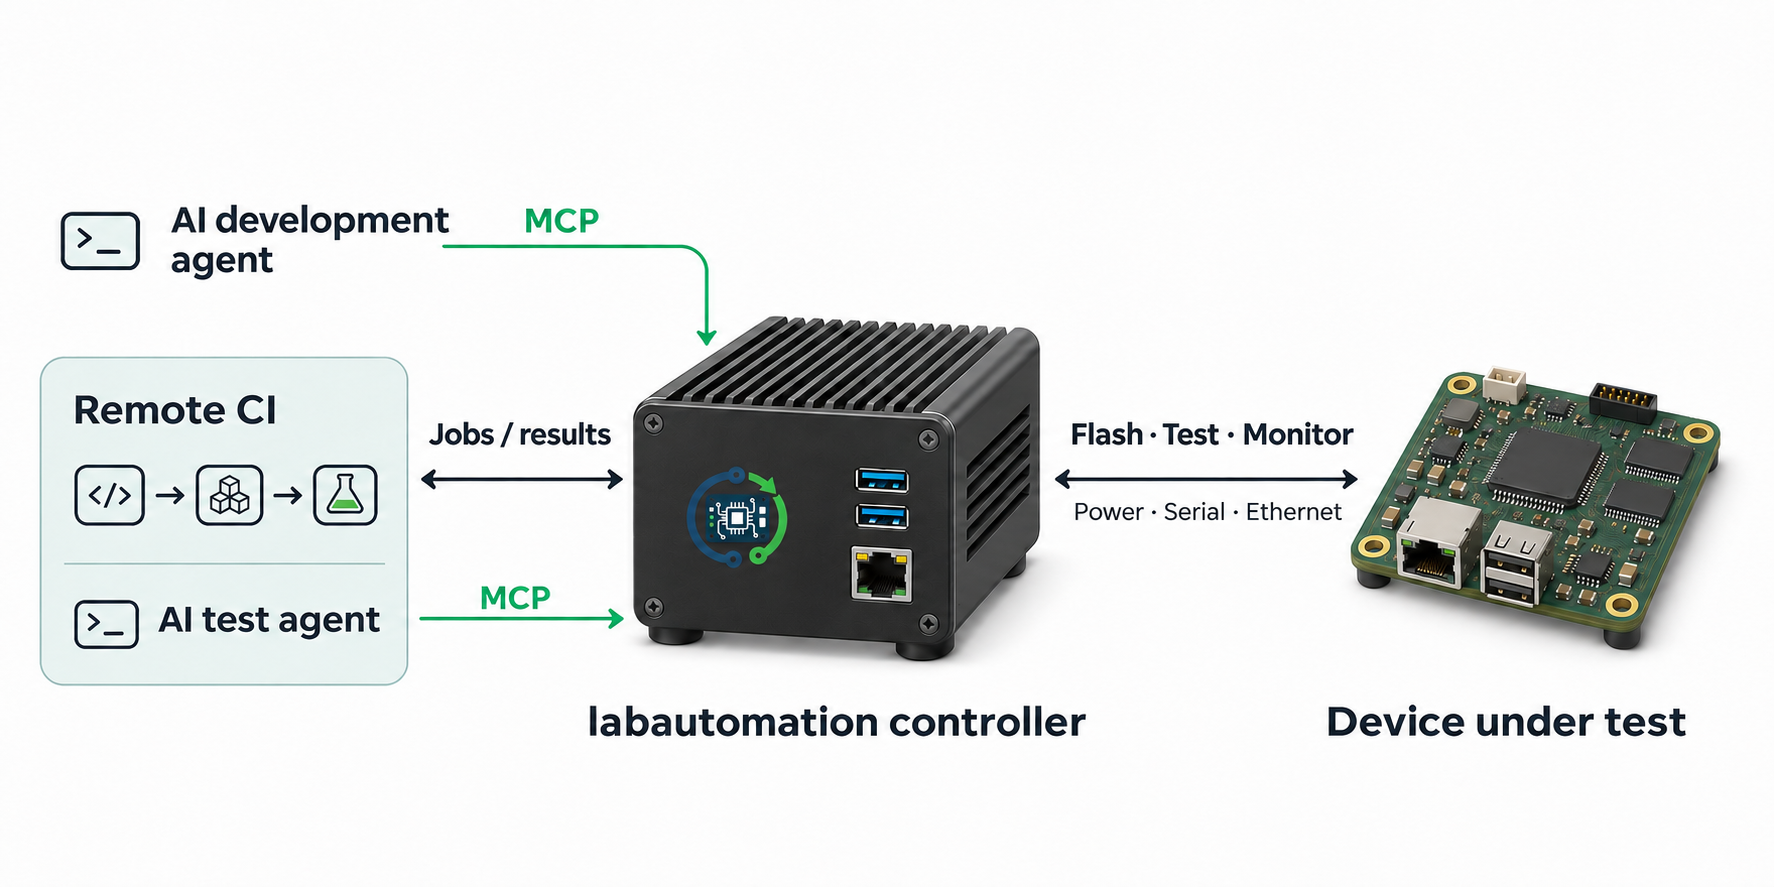
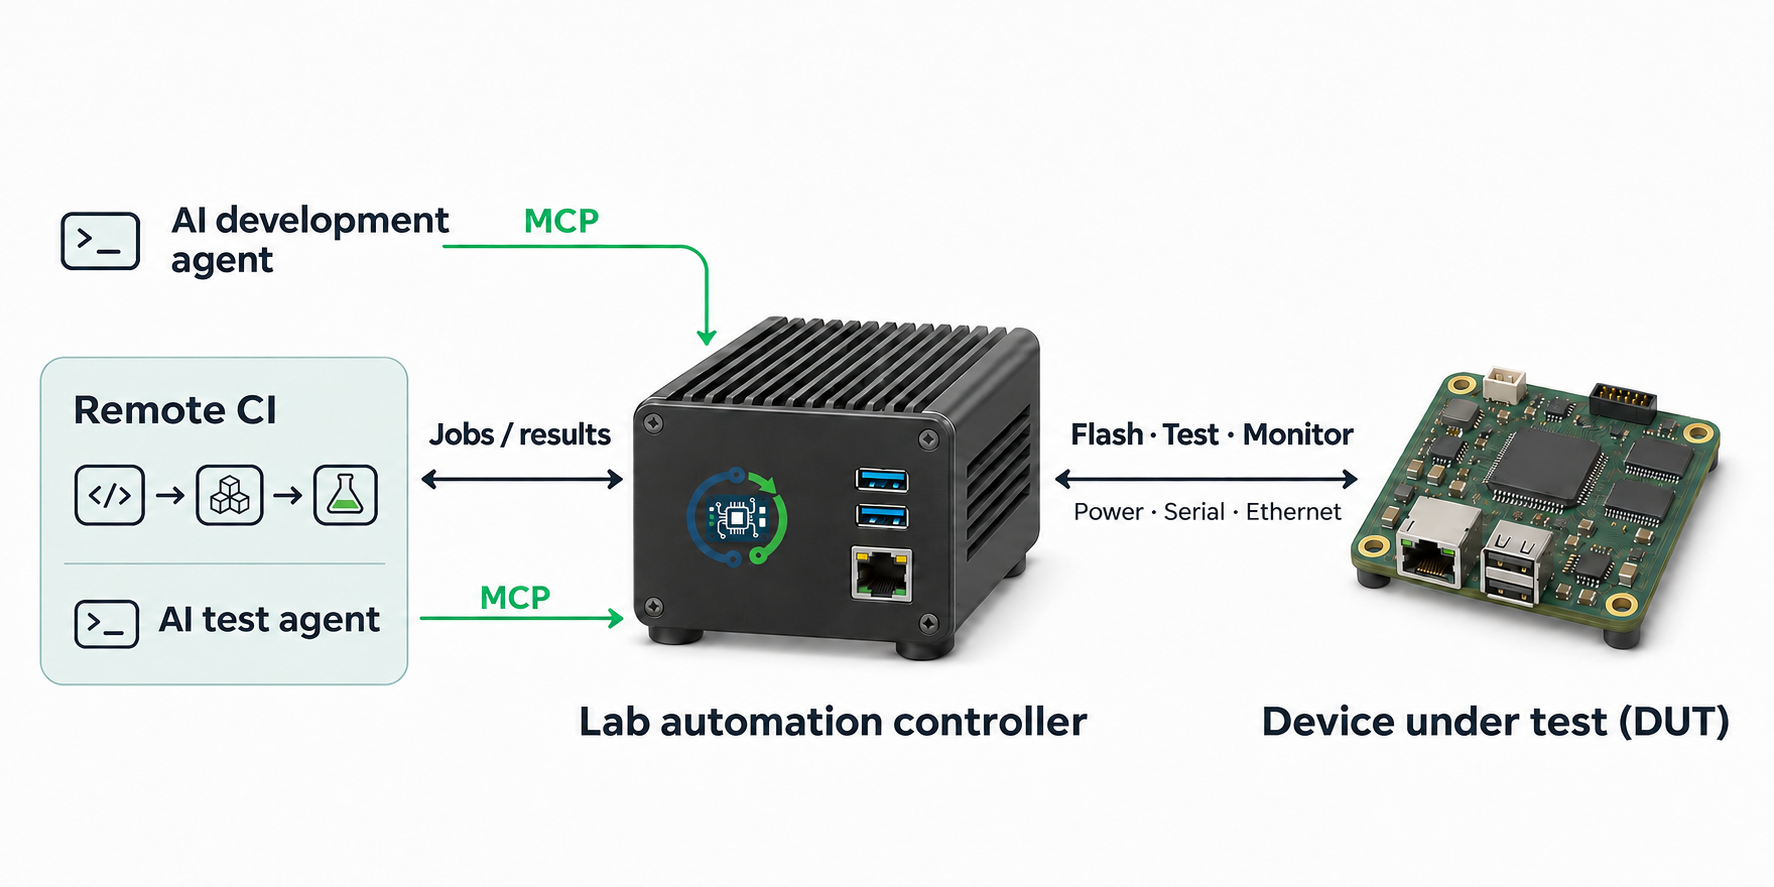
readme: add image output and flashing instructions

diff --git a/README.md b/README.md
@@ -1,10 +1,19 @@
 # meta-labautomation
 
-<img src="img/labautomation.png" alt="Lab automation logo" width="400">
+[![License: MIT](https://img.shields.io/badge/License-MIT-blue.svg)](LICENSE)
 
-OpenEmbedded/Yocto layer for building a Linux controller for embedded testing labs. It brings together tools to flash boards, control power, access serial consoles, work with test instruments and run automated tests.
+<img src="img/labautomation.png" alt="Lab automation logo" width="200">
 
-It includes Robot Framework, CI runners and agents, container services and MCP servers. The MCP servers enable AI automation by connecting AI assistants to lab tools for device control, serial communication and test execution. Labgrid integration adds shared device control and a web dashboard. Packages are grouped by purpose so you can choose what your lab needs.
+OpenEmbedded/Yocto layer for building a Linux controller for lab automation and hardware-in-the-loop (HIL) testing.
+
+## Use cases
+
+- Automated board flashing and testing
+- Hardware-in-the-loop (HIL) testing
+- CI/CD pipelines with real hardware
+- Remote lab access and device control
+- Embedded device security testing
+- AI-assisted lab automation
 
 <img src="img/labautomation-setup.png" alt="Lab automation controller connected to a DUT, remote CI and AI development and test agents through MCP" width="1000">
 
@@ -36,7 +45,8 @@ It includes Robot Framework, CI runners and agents, container services and MCP s
       <td>Power control</td>
       <td>
         <a href="https://www.shelly.com/collections/smart-plugs">Shelly</a> ·
-        <a href="https://fritz.com/en/collections/smart-home">FRITZ!Box</a>
+        <a href="https://fritz.com/en/collections/smart-home">FRITZ!Box</a> ·
+        <a href="https://github.com/prevas-dk/labgrid-powerrelay">GPIO relays</a>
       </td>
     </tr>
     <tr>
@@ -56,11 +66,18 @@ It includes Robot Framework, CI runners and agents, container services and MCP s
       </td>
     </tr>
     <tr>
-      <td>Security</td>
+      <td>Penetration testing</td>
       <td>
         <a href="https://nmap.org/">Nmap</a> ·
         <a href="https://scapy.net/">Scapy</a> ·
         <a href="https://www.tcpdump.org/">tcpdump</a> ·
+        <a href="https://github.com/Ettercap/ettercap">Ettercap</a> ·
+        <a href="https://tcpreplay.appneta.com/">tcpreplay</a>
+      </td>
+    </tr>
+    <tr>
+      <td>VPN</td>
+      <td>
         <a href="https://openvpn.net/">OpenVPN</a> ·
         <a href="https://tailscale.com/">Tailscale</a> ·
         <a href="https://www.wireguard.com/">WireGuard</a>
@@ -115,6 +132,18 @@ For Raspberry Pi 4/5, use the provided configuration:
 kas build kas/kas-labautomation-rpi.yml
 ```
 
+### Image output and flashing
+
+Images are saved in `build/tmp/deploy/images/<MACHINE>/`. Flash the Raspberry Pi 5 image with bmaptool:
+
+```sh
+sudo bmaptool copy \
+    build/tmp/deploy/images/raspberrypi5/labautomation-image-raspberrypi5.rootfs.wic.bz2 \
+    /dev/sdX
+```
+
+Keep the matching `.wic.bmap` beside the image. Unmount the target partitions and replace `/dev/sdX` with the whole target device. This overwrites the drive.
+
 ## Disclaimer
 
 This project is provided "as is", without warranty. See [LICENSE](LICENSE) for details. Included third-party software has its own licenses.
@@ -123,4 +152,4 @@ Third-party names, logos and trademarks belong to their respective owners. Their
 
 ## Commercial support
 
-For commercial support with different hardware platforms, custom development, CI/CD integration, AI agents, automated testing and security, contact Embetrix Embedded Systems Solutions at [info@embetrix.com](mailto:info@embetrix.com).
+For commercial support with different hardware platforms, custom development, CI/CD integration, AI agents, automated testing, security and penetration testing, contact Embetrix Embedded Systems Solutions at [info@embetrix.com](mailto:info@embetrix.com).
